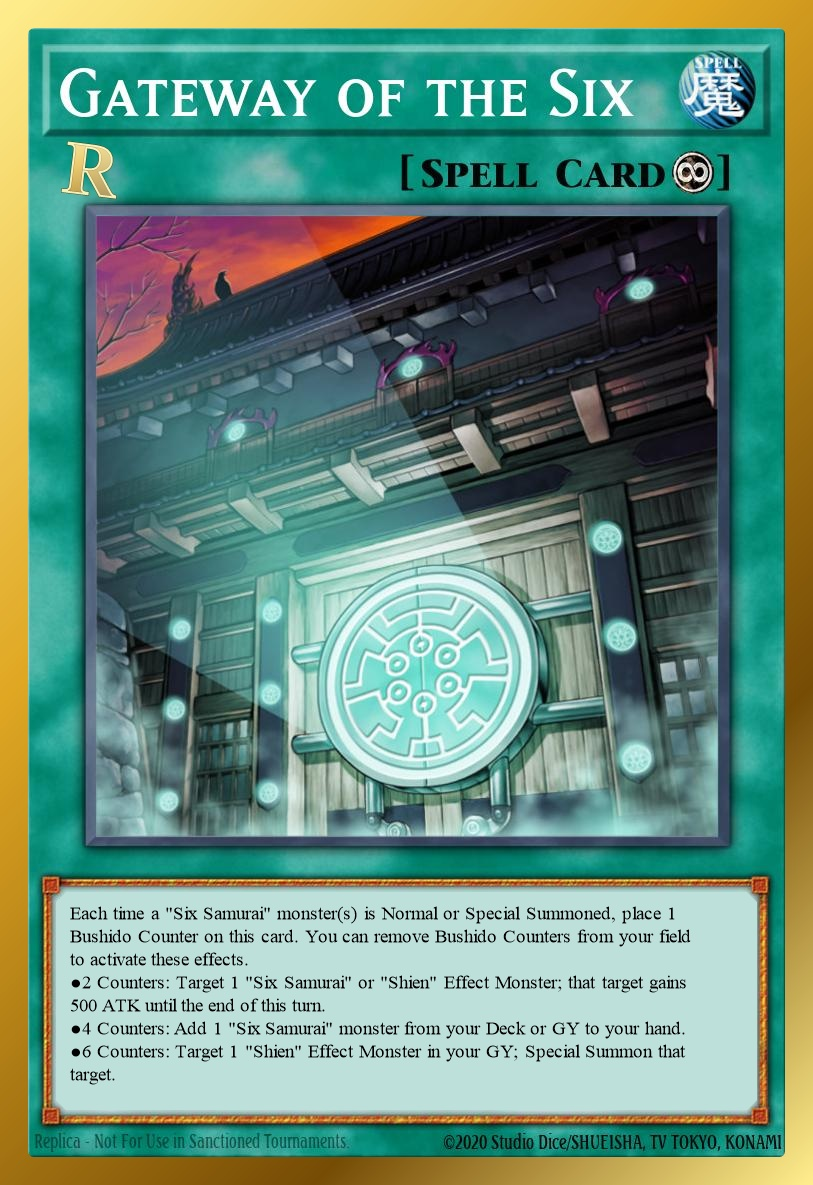
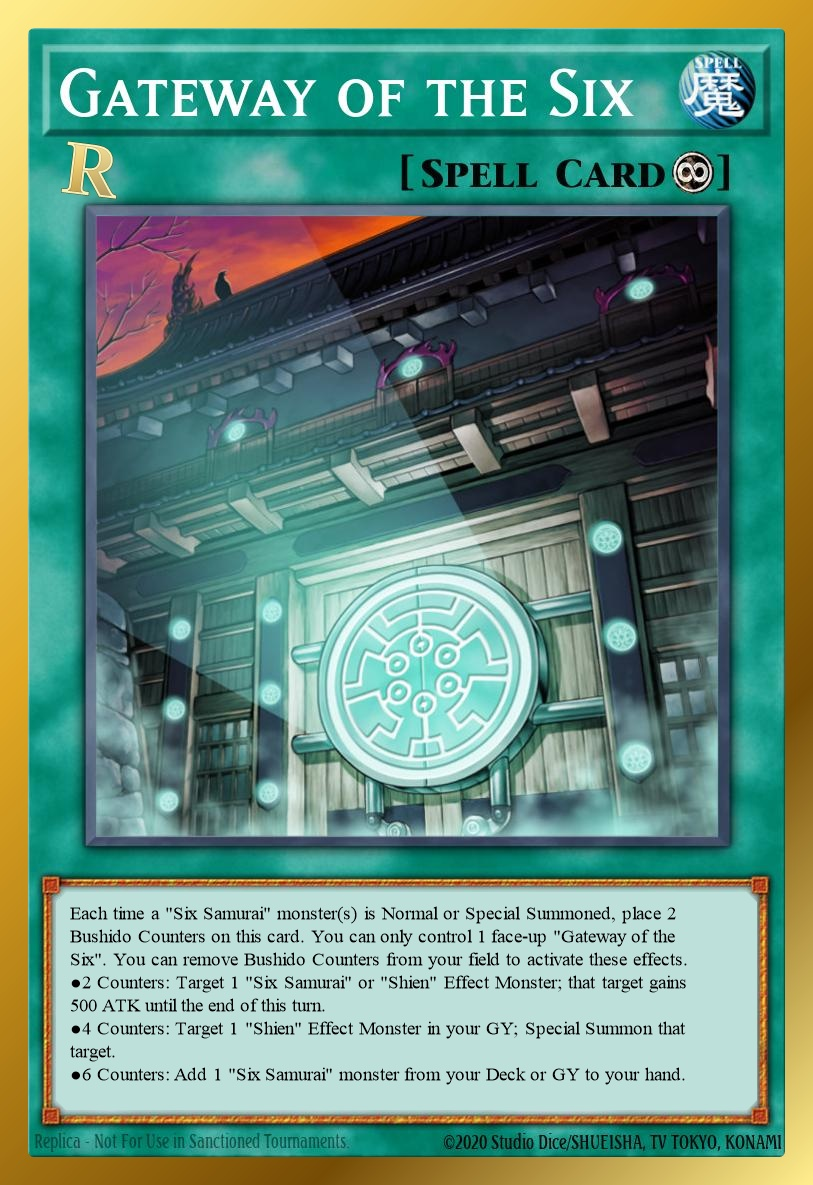
Gateway of the Six BUFF + semi limited

Changed region(s): [[0.0923, 0.843, 0.8303, 0.9367], [0.0923, 0.7806, 0.861, 0.8118]]

diff --git a/Redux/scripts/build-cards-cdb.js b/Redux/scripts/build-cards-cdb.js
@@ -165,9 +165,11 @@ module.exports = function buildCardsDb({ reduxRoot }) {
       82732705,
     );
   const gatewayOfTheSixTextResult = db
-    .prepare("UPDATE texts SET desc = ? WHERE id = ?")
+    .prepare("UPDATE texts SET desc = ?, str2 = ?, str3 = ? WHERE id = ?")
     .run(
-      'Each time a "Six Samurai" monster(s) is Normal or Special Summoned, place 1 Bushido Counter on this card. You can remove Bushido Counters from your field to activate these effects.\n\u25cf2 Counters: Target 1 "Six Samurai" or "Shien" Effect Monster; that target gains 500 ATK until the end of this turn.\n\u25cf4 Counters: Add 1 "Six Samurai" monster from your Deck or GY to your hand.\n\u25cf6 Counters: Target 1 "Shien" Effect Monster in your GY; Special Summon that target.',
+      'Each time a "Six Samurai" monster(s) is Normal or Special Summoned, place 2 Bushido Counters on this card. You can only control 1 face-up "Gateway of the Six". You can remove Bushido Counters from your field to activate these effects.\n\u25cf2 Counters: Target 1 "Six Samurai" or "Shien" Effect Monster; that target gains 500 ATK until the end of this turn.\n\u25cf4 Counters: Target 1 "Shien" Effect Monster in your GY; Special Summon that target.\n\u25cf6 Counters: Add 1 "Six Samurai" monster from your Deck or GY to your hand.',
+      '4 Counters: Target 1 "Shien" Effect Monster in your GY; Special Summon that target.',
+      '6 Counters: Add 1 "Six Samurai" monster from your Deck or GY to your hand.',
       27970830,
     );
   const trishulaTextResult = db

diff --git a/Redux/scripts/build-lflist.js b/Redux/scripts/build-lflist.js
@@ -72,6 +72,7 @@ const limitChanges = new Map([
   ["73580471", 1], // Black Rose Dragon
   ["95503687", 2], // Lumina, Lightsworn Summoner
   ["511002631", 2], // Sangan
+  ["27970830", 2], // Gateway of the Six
   ["48686504", 3], // Lonefire Blossom
   ["15341821", 2], // Dandylion
   ["16226796", 3], // Night Assailant (Pre-Errata)

diff --git a/README.md b/README.md
@@ -84,7 +84,6 @@ Redux Limits: `0` = forbidden; `1` = limited; `2` = semi-limited; `3` = unlimite
 | `1` [Elemental HERO Stratos](https://yugioh.fandom.com/wiki/Elemental_HERO_Stratos) | ⬇ Once per turn |
 | `1` [Fiber Jar](https://yugioh.fandom.com/wiki/Fiber_Jar) | 🔄 Summon/flip trigger; sets both players to 8000 LP |
 | `1` [Fishborg Blaster](https://yugioh.fandom.com/wiki/Fishborg_Blaster) | ⬇ Once per turn |
-| `1` [Gateway of the Six](https://yugioh.fandom.com/wiki/Gateway_of_the_Six) | ⬇ Only 1 counter per summon |
 | `1` [Gravity Bind](https://yugioh.fandom.com/wiki/Gravity_Bind) | ⬇ End Phase upkeep; optional 1000 LP |
 | `1` [Imperial Order](https://yugioh.fandom.com/wiki/Imperial_Order) | ⬇ End Phase upkeep; optional 1700 LP |
 | `1` [Last Will](https://yugioh.fandom.com/wiki/Last_Will) | ⬇ Once per turn; no battle damage |
@@ -101,6 +100,7 @@ Redux Limits: `0` = forbidden; `1` = limited; `2` = semi-limited; `3` = unlimite
 | `1` [Yata-Garasu](https://yugioh.fandom.com/wiki/Yata-Garasu) | ⬇ Skips Draw Phase unless opponent has 1 or fewer cards in hand |
 | `2` [Graceful Charity](https://yugioh.fandom.com/wiki/Graceful_Charity) | ⬇ Draw 3; banish 3 |
 | `2` [Dimension Fusion](https://yugioh.fandom.com/wiki/Dimension_Fusion) | 🔄 Once per turn; banishes 1 hand card as cost; banishes itself; no battle damage |
+| `2` [Gateway of the Six](https://yugioh.fandom.com/wiki/Gateway_of_the_Six) | ⬇ 4 counters revive; 6 counters search; only 1 face-up |
 | `2` [Monster Reborn](https://yugioh.fandom.com/wiki/Monster_Reborn) | ⬇ Discard 1; becomes Equip Spell; destroys revived monster if it leaves |
 | `2` [Sangan](https://yugioh.fandom.com/wiki/Sangan) | ⬇ Once per turn |
 | `2` [Witch of the Black Forest](https://yugioh.fandom.com/wiki/Witch_of_the_Black_Forest) | ⬇ Once per turn; searches less than 1000 DEF |
@@ -185,7 +185,6 @@ Redux Limits: `0` = forbidden; `1` = limited; `2` = semi-limited; `3` = unlimite
 | [Dark Hole](https://yugioh.fandom.com/wiki/Dark_Hole) | 1 | `1` | 1 | ⬇ |
 | [Elemental HERO Stratos](https://yugioh.fandom.com/wiki/Elemental_HERO_Stratos) | 1 | `1` | 1 | ⬇ |
 | [Future Fusion](https://yugioh.fandom.com/wiki/Future_Fusion) | 1 | `1` | 1 |  |
-| [Gateway of the Six](https://yugioh.fandom.com/wiki/Gateway_of_the_Six) | 1 | `1` | 1 | ⬇ |
 | [Gorz the Emissary of Darkness](https://yugioh.fandom.com/wiki/Gorz_the_Emissary_of_Darkness) | 1 | `1` | 1 |  |
 | [Honest](https://yugioh.fandom.com/wiki/Honest) | 1 | `1` | 1 |  |
 | [Infernity Launcher](https://yugioh.fandom.com/wiki/Infernity_Launcher) | 1 | `1` | 1 |  |
@@ -233,6 +232,7 @@ Redux Limits: `0` = forbidden; `1` = limited; `2` = semi-limited; `3` = unlimite
 | [Dandylion](https://yugioh.fandom.com/wiki/Dandylion) | 1 | `2` | 1 |  |
 | [Emergency Teleport](https://yugioh.fandom.com/wiki/Emergency_Teleport) | 1 | `2` | 1 |  |
 | [Foolish Burial](https://yugioh.fandom.com/wiki/Foolish_Burial) | 1 | `2` | 1 |  |
+| [Gateway of the Six](https://yugioh.fandom.com/wiki/Gateway_of_the_Six) | 1 | `2` | 1 | ⬇ |
 | [Gladiator Beast Bestiari](https://yugioh.fandom.com/wiki/Gladiator_Beast_Bestiari) | 1 | `2` | 1 |  |
 | [Lumina, Lightsworn Summoner](https://yugioh.fandom.com/wiki/Lumina,_Lightsworn_Summoner) | 1 | `2` | 1 |  |
 | [Mezuki](https://yugioh.fandom.com/wiki/Mezuki) | 1 | `2` | 1 |  |
